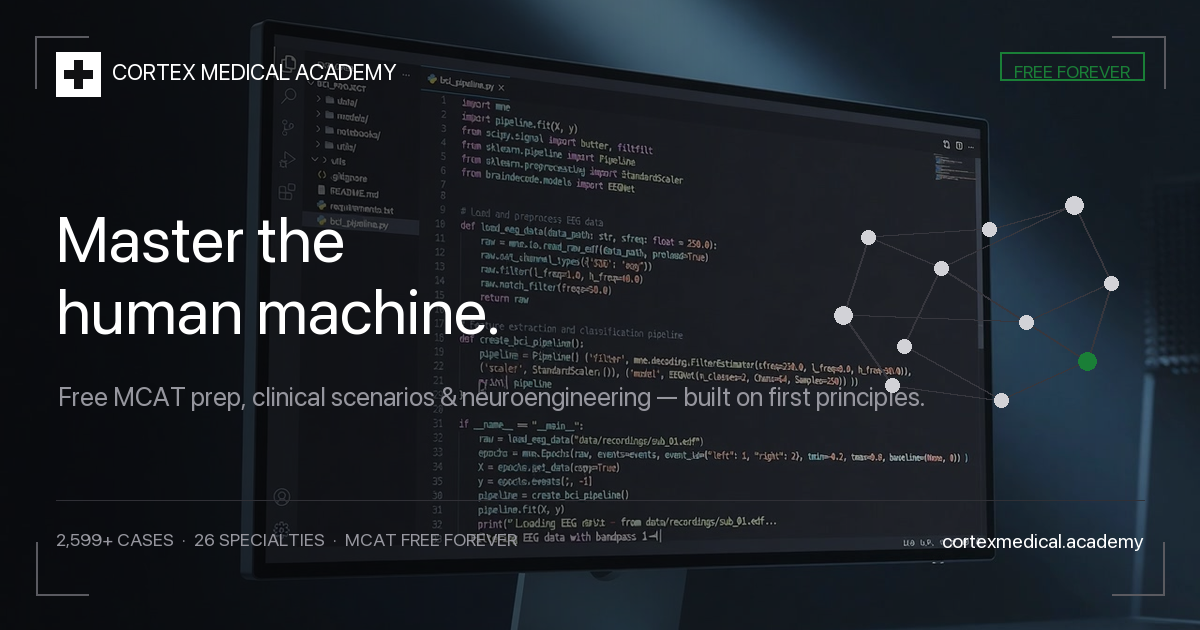
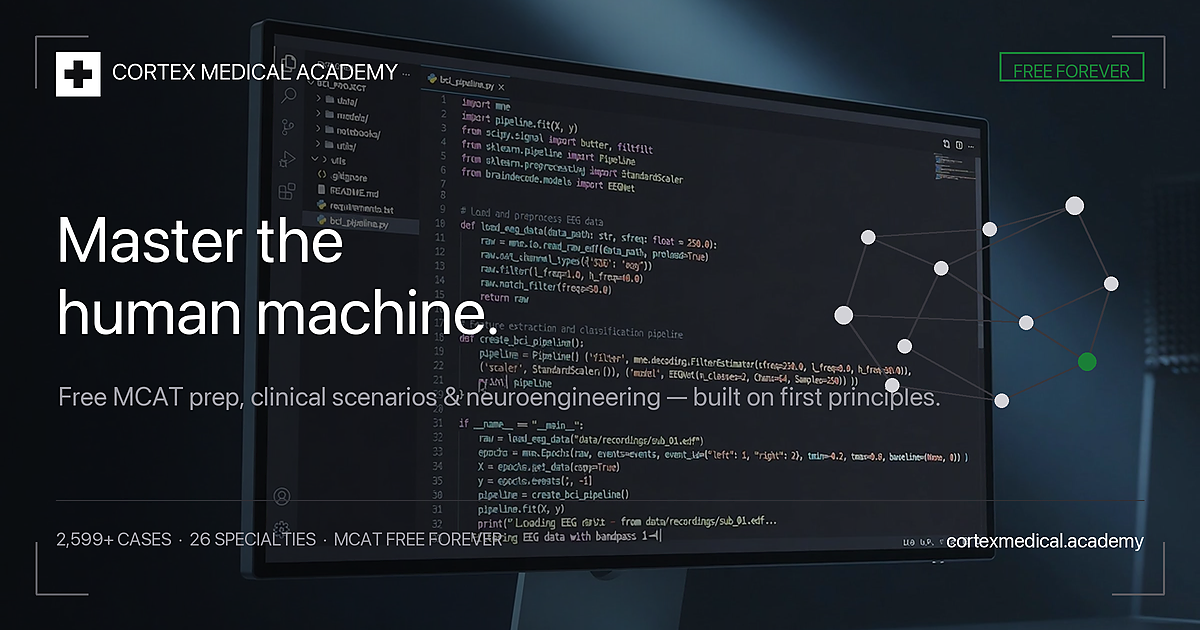
fix: sharper X preview card — 2x supersample, og-v2.jpg
Render social card at 2400x1260 then downscale; JPEG q=95 with
no chroma subsampling. New og-v2.jpg URL busts X image cache.

diff --git a/index.html b/index.html
@@ -9,21 +9,21 @@
   <meta name="twitter:creator" content="@Kevin_Vigil">
   <meta name="twitter:title" content="Cortex Medical Academy — MCAT, Clinical Scenarios &amp; Neuroengineering">
   <meta name="twitter:description" content="Evidence-based MCAT prep, free forever. Clinical scenarios across 26 specialties. Neuroengineering course with BCI Builder Path and Python OJT labs.">
-  <meta name="twitter:image" content="https://cortexmedical.academy/og.jpg">
+  <meta name="twitter:image" content="https://cortexmedical.academy/og-v2.jpg">
   <meta name="twitter:image:width" content="1200">
-  <meta name="twitter:image:height" content="600">
+  <meta name="twitter:image:height" content="630">
   <meta property="og:type" content="website">
   <meta property="og:site_name" content="Cortex Medical Academy">
   <meta property="og:url" content="https://cortexmedical.academy/">
   <meta property="og:title" content="Cortex Medical Academy — MCAT, Clinical Scenarios &amp; Neuroengineering">
   <meta property="og:description" content="Evidence-based MCAT prep, free forever. Clinical scenarios across 26 specialties. Neuroengineering course with BCI Builder Path and Python OJT labs.">
-  <meta property="og:image" content="https://cortexmedical.academy/og.jpg">
-  <meta property="og:image:secure_url" content="https://cortexmedical.academy/og.jpg">
+  <meta property="og:image" content="https://cortexmedical.academy/og-v2.jpg">
+  <meta property="og:image:secure_url" content="https://cortexmedical.academy/og-v2.jpg">
   <meta property="og:image:type" content="image/jpeg">
   <meta property="og:image:width" content="1200">
-  <meta property="og:image:height" content="600">
+  <meta property="og:image:height" content="630">
   <meta property="og:image:alt" content="Cortex Medical Academy — Master the human machine. Free MCAT prep, clinical scenarios, and neuroengineering.">
-  <link rel="image_src" href="https://cortexmedical.academy/og.jpg">
+  <link rel="image_src" href="https://cortexmedical.academy/og-v2.jpg">
   <title>Free MCAT Prep — Practice Questions, Flashcards & CARS | Cortex Medical Academy</title>
   <meta name="description" content="Free, evidence-based MCAT prep: 260+ practice questions with answer breakdowns, 500+ spaced-repetition flashcards, original CARS & science passages, and full-length exam simulation. No account, no paywall — free forever.">
   <meta name="keywords" content="free MCAT prep, MCAT practice questions, MCAT flashcards, CARS practice, MCAT science passages, MCAT exam simulator, free MCAT study, MCAT spaced repetition">
@@ -43,7 +43,7 @@
         "@id": "https://cortexmedical.academy/#org",
         "name": "Cortex Medical Academy",
         "url": "https://cortexmedical.academy/",
-        "logo": "https://cortexmedical.academy/og.jpg",
+        "logo": "https://cortexmedical.academy/og-v2.jpg",
         "description": "Free, evidence-based MCAT preparation and clinical training — built on first principles, free for everyone.",
         "founder": { "@type": "Person", "name": "Kevin Vigil" },
         "sameAs": ["https://x.com/kevin__vigil"]

diff --git a/share.html b/share.html
@@ -10,18 +10,18 @@
   <meta name="twitter:site" content="@Kevin_Vigil">
   <meta name="twitter:title" content="Cortex Medical Academy — MCAT, Clinical Scenarios &amp; Neuroengineering">
   <meta name="twitter:description" content="Evidence-based MCAT prep, free forever. Clinical scenarios across 26 specialties. Neuroengineering with BCI Builder Path and Python OJT labs.">
-  <meta name="twitter:image" content="https://cortexmedical.academy/og.jpg">
+  <meta name="twitter:image" content="https://cortexmedical.academy/og-v2.jpg">
   <meta name="twitter:image:width" content="1200">
-  <meta name="twitter:image:height" content="600">
+  <meta name="twitter:image:height" content="630">
   <meta property="og:type" content="website">
   <meta property="og:url" content="https://cortexmedical.academy/share">
   <meta property="og:title" content="Cortex Medical Academy — MCAT, Clinical Scenarios &amp; Neuroengineering">
   <meta property="og:description" content="Evidence-based MCAT prep, free forever. Clinical scenarios across 26 specialties. Neuroengineering with BCI Builder Path and Python OJT labs.">
-  <meta property="og:image" content="https://cortexmedical.academy/og.jpg">
-  <meta property="og:image:secure_url" content="https://cortexmedical.academy/og.jpg">
+  <meta property="og:image" content="https://cortexmedical.academy/og-v2.jpg">
+  <meta property="og:image:secure_url" content="https://cortexmedical.academy/og-v2.jpg">
   <meta property="og:image:type" content="image/jpeg">
   <meta property="og:image:width" content="1200">
-  <meta property="og:image:height" content="600">
+  <meta property="og:image:height" content="630">
 </head>
 <body>
   <p><a href="https://cortexmedical.academy/">Continue to Cortex Medical Academy</a></p>

diff --git a/scripts/generate-social-card.py b/scripts/generate-social-card.py
@@ -1,5 +1,5 @@
 #!/usr/bin/env python3
-"""Generate Cortex social preview card (1200x630)."""
+"""Generate Cortex social preview card (1200x630, supersampled for sharp text)."""
 from __future__ import annotations
 
 import math
@@ -7,14 +7,17 @@ import subprocess
 import sys
 from pathlib import Path
 
-from PIL import Image, ImageDraw, ImageFont
+from PIL import Image, ImageDraw, ImageFilter, ImageFont
 
 ROOT = Path(__file__).resolve().parents[1]
 OUT = ROOT / "social-card.png"
+OG_JPG = ROOT / "og.jpg"
+OG_V2 = ROOT / "og-v2.jpg"
 VIDEO = ROOT / "assets" / "neuro-bg.mp4"
 FRAME = ROOT / "scripts" / ".og-frame.jpg"
 
 W, H = 1200, 630
+SCALE = 2  # render 2x, downscale for crisp type
 BG = (17, 17, 19)
 WHITE = (255, 255, 255)
 GREEN = (26, 127, 55)
@@ -43,7 +46,9 @@ def extract_frame() -> Image.Image | None:
         subprocess.run(
             [
                 "ffmpeg", "-y", "-ss", "2.5", "-i", str(VIDEO),
-                "-vframes", "1", "-q:v", "2", str(FRAME),
+                "-vframes", "1", "-q:v", "1",
+                "-vf", f"scale={W * SCALE}:-2:flags=lanczos",
+                str(FRAME),
             ],
             check=True,
             capture_output=True,
@@ -63,24 +68,24 @@ def cover_crop(img: Image.Image, tw: int, th: int) -> Image.Image:
     return img.crop((left, top, left + tw, top + th))
 
 
-def draw_corners(draw: ImageDraw.ImageDraw) -> None:
-    inset, arm = 36, 52
+def draw_corners(draw: ImageDraw.ImageDraw, w: int, h: int) -> None:
+    inset, arm = 36 * SCALE, 52 * SCALE
     c = (90, 90, 96)
     pts = [
         ((inset, inset + arm), (inset, inset), (inset + arm, inset)),
-        ((W - inset - arm, inset), (W - inset, inset), (W - inset, inset + arm)),
-        ((inset, H - inset - arm), (inset, H - inset), (inset + arm, H - inset)),
-        ((W - inset - arm, H - inset), (W - inset, H - inset), (W - inset, H - inset - arm)),
+        ((w - inset - arm, inset), (w - inset, inset), (w - inset, inset + arm)),
+        ((inset, h - inset - arm), (inset, h - inset), (inset + arm, h - inset)),
+        ((w - inset - arm, h - inset), (w - inset, h - inset), (w - inset, h - inset - arm)),
     ]
     for a, b, cpt in pts:
-        draw.line([a, b], fill=c, width=2)
-        draw.line([b, cpt], fill=c, width=2)
+        draw.line([a, b], fill=c, width=2 * SCALE)
+        draw.line([b, cpt], fill=c, width=2 * SCALE)
 
 
-def draw_mark(draw: ImageDraw.ImageDraw, x: int, y: int, size: int = 44) -> None:
+def draw_mark(draw: ImageDraw.ImageDraw, x: int, y: int, size: int) -> None:
     draw.rectangle((x, y, x + size, y + size), fill=WHITE)
     cx, cy = x + size // 2, y + size // 2
-    t = max(4, size // 9)
+    t = max(4 * SCALE, size // 9)
     draw.rectangle((cx - t, y + size // 5, cx + t, y + size - size // 5), fill=BG)
     draw.rectangle((x + size // 5, cy - t, x + size - size // 5, cy + t), fill=BG)
 
@@ -97,71 +102,84 @@ def draw_network(draw: ImageDraw.ImageDraw, box: tuple[int, int, int, int]) -> N
         (0, 1), (1, 2), (2, 3), (3, 4), (4, 5), (5, 6), (6, 7), (7, 8),
         (8, 9), (9, 10), (10, 5), (3, 9), (7, 3), (0, 8), (1, 7), (2, 4),
     ]
+    lw = 2 * SCALE
     for a, b in edges:
-        draw.line([pts[a], pts[b]], fill=(55, 55, 62), width=2)
+        draw.line([pts[a], pts[b]], fill=(55, 55, 62), width=lw)
     for i, p in enumerate(pts):
-        r = 9 if i in (1, 4, 9) else 7
+        r = (9 if i in (1, 4, 9) else 7) * SCALE
         color = GREEN if i == 4 else (210, 210, 215)
         draw.ellipse((p[0] - r, p[1] - r, p[0] + r, p[1] + r), fill=color)
 
 
-def gradient_overlay(base: Image.Image, strength: float = 0.72) -> Image.Image:
+def gradient_overlay(base: Image.Image, strength: float = 0.68) -> Image.Image:
+    w, h = base.size
     overlay = Image.new("RGBA", base.size, (0, 0, 0, 0))
     draw = ImageDraw.Draw(overlay)
-    for x in range(W):
-        t = x / W
+    for x in range(w):
+        t = x / w
         fade = 0.35 + 0.65 * max(0.0, (1 + math.cos(t * math.pi)) / 2)
         alpha = int(255 * strength * fade)
-        draw.line([(x, 0), (x, H)], fill=(8, 8, 10, min(255, alpha)))
+        draw.line([(x, 0), (x, h)], fill=(8, 8, 10, min(255, alpha)))
     return Image.alpha_composite(base.convert("RGBA"), overlay).convert("RGB")
 
 
-def main() -> int:
+def render_card() -> Image.Image:
+    rw, rh = W * SCALE, H * SCALE
     frame = extract_frame()
     if frame:
-        bg = cover_crop(frame, W, H)
-        img = gradient_overlay(bg, 0.78)
+        bg = cover_crop(frame, rw, rh)
+        img = gradient_overlay(bg, 0.68)
     else:
-        img = Image.new("RGB", (W, H), BG)
+        img = Image.new("RGB", (rw, rh), BG)
 
     draw = ImageDraw.Draw(img)
-    draw_corners(draw)
+    draw_corners(draw, rw, rh)
 
-    font_brand = load_font(22, bold=True)
-    font_head = load_font(64, bold=True)
-    font_sub = load_font(26)
-    font_stat = load_font(18)
-    font_url = load_font(20)
+    s = SCALE
+    font_brand = load_font(22 * s, bold=True)
+    font_head = load_font(64 * s, bold=True)
+    font_sub = load_font(26 * s)
+    font_stat = load_font(18 * s)
+    font_url = load_font(20 * s)
 
-    draw_mark(draw, 56, 52)
-    draw.text((112, 58), "CORTEX MEDICAL ACADEMY", font=font_brand, fill=WHITE)
+    draw_mark(draw, 56 * s, 52 * s, 44 * s)
+    draw.text((112 * s, 58 * s), "CORTEX MEDICAL ACADEMY", font=font_brand, fill=WHITE)
 
     pill = "FREE FOREVER"
-    px = W - 56
+    px = rw - 56 * s
     bbox = draw.textbbox((0, 0), pill, font=font_stat)
-    pw, ph = bbox[2] - bbox[0] + 28, bbox[3] - bbox[1] + 16
-    draw.rectangle((px - pw, 52, px, 52 + ph), outline=GREEN, width=2)
-    draw.text((px - pw + 14, 60), pill, font=font_stat, fill=GREEN)
+    pw, ph = bbox[2] - bbox[0] + 28 * s, bbox[3] - bbox[1] + 16 * s
+    draw.rectangle((px - pw, 52 * s, px, 52 * s + ph), outline=GREEN, width=2 * s)
+    draw.text((px - pw + 14 * s, 60 * s), pill, font=font_stat, fill=GREEN)
 
-    draw.text((56, 200), "Master the", font=font_head, fill=WHITE)
-    draw.text((56, 272), "human machine.", font=font_head, fill=WHITE)
+    draw.text((56 * s, 200 * s), "Master the", font=font_head, fill=WHITE)
+    draw.text((56 * s, 272 * s), "human machine.", font=font_head, fill=WHITE)
 
     sub = "Free MCAT prep, clinical scenarios & neuroengineering — built on first principles."
-    draw.text((58, 380), sub, font=font_sub, fill=MUTED)
+    draw.text((58 * s, 380 * s), sub, font=font_sub, fill=MUTED)
 
-    draw.line([(56, 500), (W - 56, 500)], fill=LINE, width=1)
-    draw.text((56, 528), "2,599+ CASES  ·  26 SPECIALTIES  ·  MCAT FREE FOREVER", font=font_stat, fill=MUTED)
-    draw.text((W - 56, 528), "cortexmedical.academy", font=font_url, fill=WHITE, anchor="ra")
+    draw.line([(56 * s, 500 * s), (rw - 56 * s, 500 * s)], fill=LINE, width=s)
+    draw.text((56 * s, 528 * s), "2,599+ CASES  ·  26 SPECIALTIES  ·  MCAT FREE FOREVER", font=font_stat, fill=MUTED)
+    draw.text((rw - 56 * s, 528 * s), "cortexmedical.academy", font=font_url, fill=WHITE, anchor="ra")
 
-    draw_network(draw, (int(W * 0.46), 120, W - 40, H - 120))
+    draw_network(draw, (int(rw * 0.46), 120 * s, rw - 40 * s, rh - 120 * s))
+
+    return img.resize((W, H), Image.Resampling.LANCZOS)
+
+
+def main() -> int:
+    img = render_card()
+    img = img.filter(ImageFilter.UnsharpMask(radius=0.8, percent=110, threshold=2))
 
     OUT.parent.mkdir(parents=True, exist_ok=True)
     img.save(OUT, "PNG", optimize=True)
-    og_jpg = ROOT / "og.jpg"
-    og = img.convert("RGB").resize((1200, 600), Image.Resampling.LANCZOS)
-    og.save(og_jpg, "JPEG", quality=90, optimize=True, progressive=False)
+    jpg_opts = dict(format="JPEG", quality=95, subsampling=0, optimize=True, progressive=False)
+    img.save(OG_JPG, **jpg_opts)
+    img.save(OG_V2, **jpg_opts)
+
     print(f"Wrote {OUT} ({OUT.stat().st_size} bytes)")
-    print(f"Wrote {og_jpg} ({og_jpg.stat().st_size} bytes)")
+    print(f"Wrote {OG_JPG} ({OG_JPG.stat().st_size} bytes)")
+    print(f"Wrote {OG_V2} ({OG_V2.stat().st_size} bytes)")
     return 0
 
 